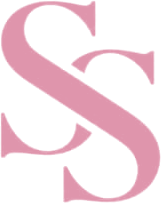
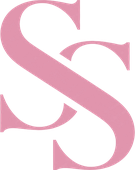
Add files via upload

diff --git a/index.html b/index.html
@@ -72,10 +72,9 @@ header{position:sticky;top:0;z-index:40;background:color-mix(in srgb,var(--fondo
 .btn-1{background:var(--tinta);color:var(--fondo)}
 .btn-2{border:1.5px solid var(--tinta)}
 .btn-acento{background:var(--acento);color:var(--tinta)}
-.hero-img{aspect-ratio:4/5;border-radius:200px 200px 28px 28px;background:linear-gradient(160deg,var(--crema),var(--rosa));display:flex;align-items:center;justify-content:center;position:relative;overflow:hidden}
-.hero-img .sello{position:absolute;bottom:18px;left:18px;right:18px;background:var(--blanco);border-radius:14px;padding:14px 16px;font-size:.9rem;display:flex;justify-content:space-between;align-items:center}
-.hero-img .sello b{font-family:var(--display);font-size:.95rem}
-@media (max-width:860px){.hero{grid-template-columns:1fr;padding-top:34px}.hero-img{aspect-ratio:1/1;border-radius:160px 160px 24px 24px}.hero-img>img{width:44%!important;margin-bottom:60px}}
+.hero-img{display:flex;align-items:center;justify-content:center}
+.hero-img img{width:min(100%,460px);aspect-ratio:1;border-radius:50%;object-fit:cover;box-shadow:0 0 0 12px var(--crema),0 0 0 13px var(--rosa),0 24px 60px color-mix(in srgb,var(--tinta) 14%,transparent)}
+@media (max-width:860px){.hero{grid-template-columns:1fr;padding-top:34px}.hero-img{order:-1;padding:14px 0 6px}.hero-img img{width:min(56%,230px)}}
 
 .cinta{background:var(--tinta);color:var(--fondo);padding:16px 0;overflow:hidden;white-space:nowrap;margin:20px 0 60px}
 .cinta div{display:inline-block;animation:correr 28s linear infinite;font-family:var(--display);font-size:1.05rem;letter-spacing:.3em;text-transform:uppercase}
@@ -86,7 +85,7 @@ header{position:sticky;top:0;z-index:40;background:color-mix(in srgb,var(--fondo
 .seccion-titulo h2{font-family:var(--display);font-size:clamp(1.9rem,3.6vw,2.7rem);font-weight:600}
 .seccion-titulo a{font-weight:700;color:var(--acento);text-decoration:none;white-space:nowrap}
 
-.cats-inicio{display:grid;grid-template-columns:repeat(4,1fr);gap:14px;margin-bottom:70px}
+.cats-inicio{display:grid;grid-template-columns:repeat(4,1fr);gap:14px;margin-bottom:80px}
 .cat-card{background:var(--suave);border-radius:var(--radio);padding:20px;aspect-ratio:1/1.05;display:flex;flex-direction:column;justify-content:space-between;text-align:left;transition:transform .2s}
 .cat-card:hover{transform:translateY(-4px)}
 .cat-card svg{width:58%;align-self:center;margin-top:8px}
@@ -105,7 +104,7 @@ header{position:sticky;top:0;z-index:40;background:color-mix(in srgb,var(--fondo
 .chip.activo{background:var(--tinta);color:var(--fondo);border-color:var(--tinta)}
 .chip .n{opacity:.55;margin-left:4px;font-size:.85em}
 
-.grilla{display:grid;grid-template-columns:repeat(auto-fill,minmax(240px,1fr));gap:22px 18px;padding-bottom:80px}
+.grilla{display:grid;grid-template-columns:repeat(auto-fill,minmax(240px,1fr));gap:22px 18px;padding-bottom:60px}
 .prod{text-align:left;display:flex;flex-direction:column;gap:12px}
 .prod-img{aspect-ratio:3/4;border-radius:var(--radio);overflow:hidden;position:relative;background:var(--suave)}
 .prod-img img,.prod-img svg{width:100%;height:100%;object-fit:cover;transition:transform .5s}
@@ -124,7 +123,13 @@ header{position:sticky;top:0;z-index:40;background:color-mix(in srgb,var(--fondo
 .ficha{background:var(--fondo);border-radius:26px;max-width:980px;width:100%;max-height:92vh;overflow:auto;display:grid;grid-template-columns:1fr 1fr;position:relative}
 .cerrar{position:absolute;top:14px;right:14px;width:42px;height:42px;border-radius:50%;background:var(--blanco);display:flex;align-items:center;justify-content:center;z-index:3;font-size:1.3rem}
 .galeria{padding:18px;display:flex;flex-direction:column;gap:10px}
-.galeria .principal{aspect-ratio:3/4;border-radius:var(--radio);overflow:hidden;background:var(--suave)}
+.galeria .principal{aspect-ratio:3/4;max-height:calc(92vh - 120px);width:100%;border-radius:var(--radio);overflow:hidden;background:var(--suave);position:relative;touch-action:pan-y}
+.flecha{position:absolute;top:50%;transform:translateY(-50%);width:42px;height:42px;border-radius:50%;background:color-mix(in srgb,var(--blanco) 88%,transparent);color:var(--tinta);font-size:1.3rem;display:flex;align-items:center;justify-content:center;box-shadow:0 2px 10px rgba(0,0,0,.12);z-index:2}
+.flecha.izq{left:10px}.flecha.der{right:10px}
+.contador{position:absolute;bottom:12px;left:50%;transform:translateX(-50%);display:flex;gap:6px;z-index:2}
+.contador i{width:8px;height:8px;border-radius:50%;background:color-mix(in srgb,var(--blanco) 60%,transparent)}
+.contador i.on{background:var(--blanco);width:20px;border-radius:99px}
+@media (max-width:760px){.galeria .principal{max-height:58vh}}
 .galeria .principal img,.galeria .principal svg{width:100%;height:100%;object-fit:cover}
 .miniaturas{display:flex;gap:8px}
 .miniaturas button{width:64px;aspect-ratio:3/4;border-radius:10px;overflow:hidden;opacity:.55;border:2px solid transparent;background:var(--suave)}
@@ -213,7 +218,7 @@ footer{background:var(--tinta);color:var(--fondo);padding:50px 0 30px}
   <section class="vista" id="v-inicio">
     <div class="wrap hero">
       <div>
-        <span class="etiqueta">Puerto Madryn · Envíos a todo el país</span>
+        <span class="etiqueta">Ropa deportiva femenina · Envíos en Puerto Madryn</span>
         <h1>Moverte <em>cómoda</em>,<br>verte increíble.</h1>
         <p>Conjuntos, calzas y prendas deportivas pensadas para entrenar, caminar la costanera o vivirlas todo el día.</p>
         <div class="botones">
@@ -221,19 +226,17 @@ footer{background:var(--tinta);color:var(--fondo);padding:50px 0 30px}
           <a href="#como-comprar" class="btn btn-2">Cómo comprar</a>
         </div>
       </div>
-      <div class="hero-img" id="hero-img">
-        <div class="sello"><span>Nueva colección</span><b id="coleccion">Primavera–Verano</b></div>
-      </div>
+      <div class="hero-img"><img src="logo-circular.jpg" alt="Simonetta Sport"></div>
     </div>
 
     <div class="cinta"><div id="cinta-txt"></div></div>
 
     <div class="wrap">
-      <div class="seccion-titulo"><h2>Comprá por categoría</h2><a href="#catalogo">Ver todo →</a></div>
-      <div class="cats-inicio" id="cats-inicio"></div>
-
       <div class="seccion-titulo"><h2>Lo más nuevo</h2><a href="#catalogo">Ver catálogo →</a></div>
       <div class="grilla" id="destacados"></div>
+
+      <div class="seccion-titulo"><h2>Comprá por categoría</h2><a href="#catalogo">Ver todo →</a></div>
+      <div class="cats-inicio" id="cats-inicio"></div>
     </div>
   </section>
 
@@ -373,10 +376,8 @@ function tarjeta(p){
 }
 
 function pintarInicio(){
-  $("#hero-img").insertAdjacentHTML("afterbegin", `<img src="logo.png" alt="Simonetta Sport" style="width:58%">`);
-  if (TIENDA.coleccion) $("#coleccion").textContent = TIENDA.coleccion;
-  const frase = [...CATEGORIAS.map(c=>c.nombre), "Envíos a todo el país", "Puerto Madryn"];
-  $("#cinta-txt").innerHTML = [...frase,...frase,...frase].map(t=>`${esc(t)}<span>✦</span>`).join("");
+  const frase = ["Ropa Deportiva Femenina", "Puerto Madryn"];
+  $("#cinta-txt").innerHTML = [...frase,...frase,...frase,...frase,...frase,...frase].map(t=>`${esc(t)}<span>✦</span>`).join("");
   $("#cats-inicio").innerHTML = CATEGORIAS.slice(0,4).map(c=>{
     const n = PRODUCTOS.filter(p=>p.categoria===c.id).length;
     return `<button class="cat-card" onclick="irACategoria('${c.id}')">
@@ -403,7 +404,8 @@ function irACategoria(id){ filtro=id; location.hash="catalogo"; }
 let sel = {};
 function abrirProducto(id){
   const p = PRODUCTOS.find(x=>x.id===id);
-  sel = { p, talle:null, color:0, foto:0 };
+  const disponibles = p.talles.map((t,i)=>i).filter(i=>!p.agotados.includes(p.talles[i]));
+  sel = { p, talle: disponibles.length===1 ? disponibles[0] : null, color:0, foto:0 };
   pintarFicha();
   $("#modal").classList.add("abierto");
   document.body.style.overflow="hidden";
@@ -420,7 +422,11 @@ function pintarFicha(){
   $("#ficha").innerHTML = `
     <button class="cerrar" onclick="cerrarModal()" aria-label="Cerrar">✕</button>
     <div class="galeria">
-      <div class="principal">${imagen(p, sel.foto)}</div>
+      <div class="principal" id="principal">${imagen(p, sel.foto)}
+        ${nFotos>1?`<button class="flecha izq" aria-label="Foto anterior" onclick="cambiarFoto(-1)">‹</button>
+        <button class="flecha der" aria-label="Foto siguiente" onclick="cambiarFoto(1)">›</button>
+        <div class="contador">${Array.from({length:nFotos},(_,i)=>`<i class="${i===sel.foto?"on":""}"></i>`).join("")}</div>`:""}
+      </div>
       ${nFotos>1?`<div class="miniaturas">${Array.from({length:nFotos},(_,i)=>`<button class="${i===sel.foto?"activo":""}" onclick="sel.foto=${i};pintarFicha()">${imagen(p,i)}</button>`).join("")}</div>`:""}
     </div>
     <div class="info">
@@ -439,7 +445,12 @@ function pintarFicha(){
         : `<a class="btn btn-acento comprar" aria-disabled="${!talleOk}" target="_blank" rel="noopener" href="${wa}?text=${msg}">${talleOk?"Pedir por WhatsApp":"Elegí un talle"}</a>`}
       <p class="nota">Se abre WhatsApp con tu pedido armado.</p>
     </div>`;
+  sel.n = nFotos;
+  const pr = $("#principal"); let x0 = null;
+  pr.addEventListener("touchstart", e => { x0 = e.touches[0].clientX; }, {passive:true});
+  pr.addEventListener("touchend", e => { if (x0===null) return; const dx = e.changedTouches[0].clientX - x0; x0 = null; if (Math.abs(dx) > 40) cambiarFoto(dx < 0 ? 1 : -1); });
 }
+function cambiarFoto(d){ if (!sel.n || sel.n < 2) return; sel.foto = (sel.foto + d + sel.n) % sel.n; pintarFicha(); }
 function verMedidas(){
   const p = sel.p;
   $("#ficha-medidas").innerHTML = `<button class="cerrar" onclick="$('#modal-medidas').classList.remove('abierto')">✕</button>
@@ -458,7 +469,7 @@ function mostrar(){
   cerrarModal(); $("#modal-medidas").classList.remove("abierto");
   window.scrollTo(0,0);
 }
-document.addEventListener("keydown", e=>{ if(e.key==="Escape"){ cerrarModal(); $("#modal-medidas").classList.remove("abierto"); }});
+document.addEventListener("keydown", e=>{ if($("#modal").classList.contains("abierto")){ if(e.key==="ArrowRight") cambiarFoto(1); if(e.key==="ArrowLeft") cambiarFoto(-1); } if(e.key==="Escape"){ cerrarModal(); $("#modal-medidas").classList.remove("abierto"); }});
 window.addEventListener("hashchange", mostrar);
 
 function pintarContacto(){
